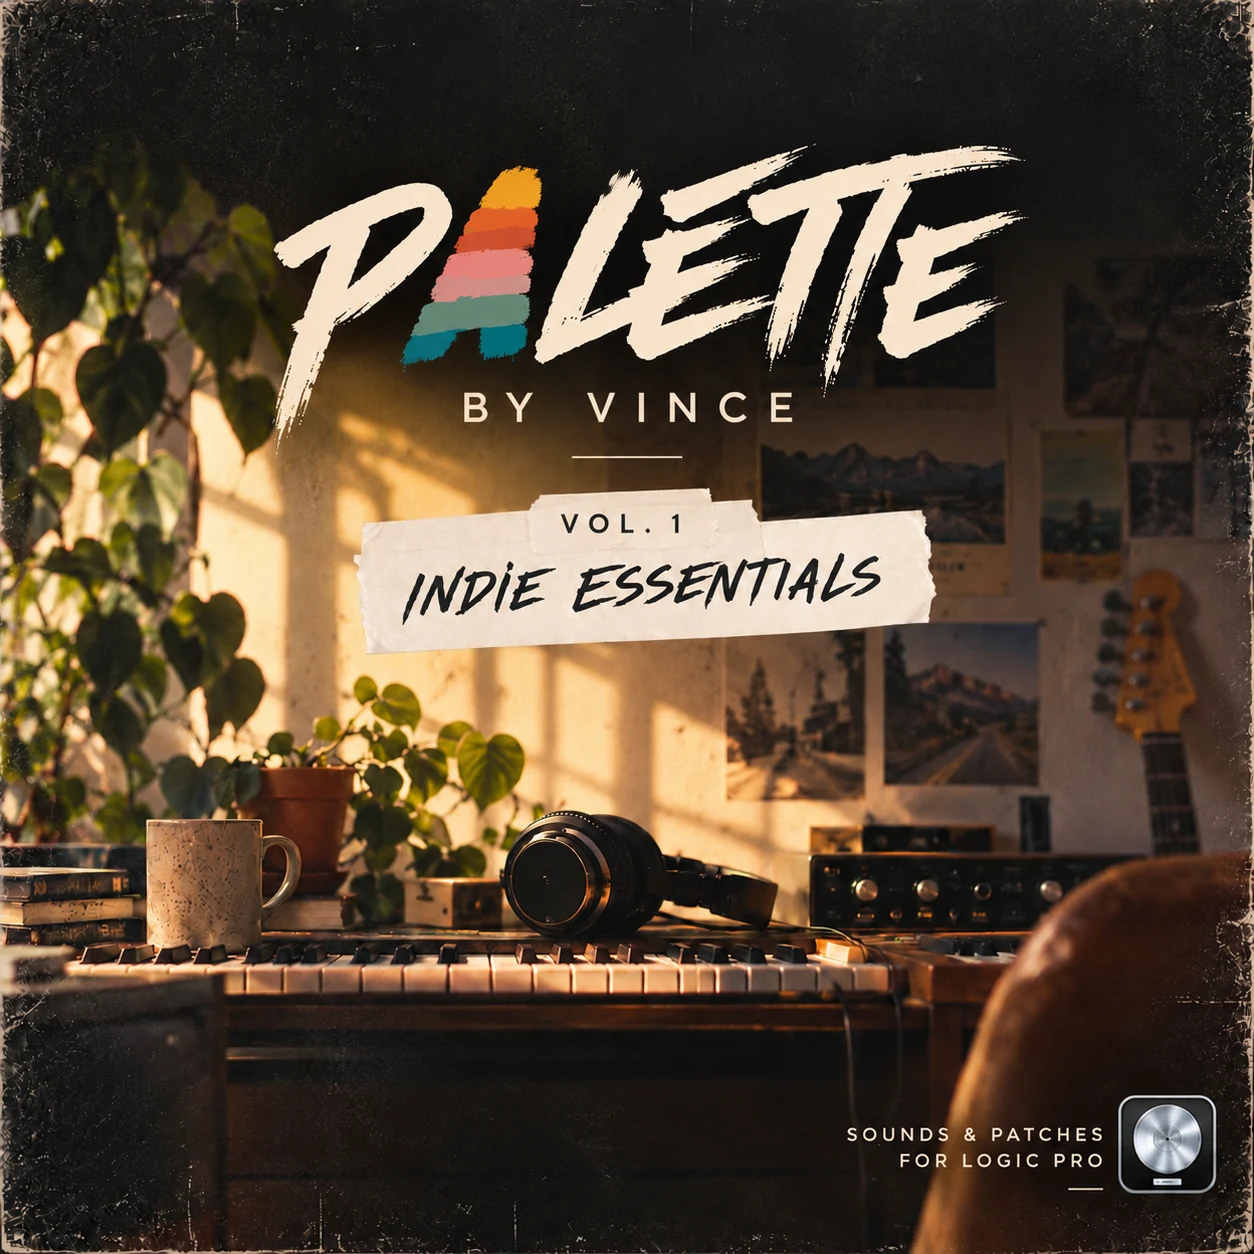
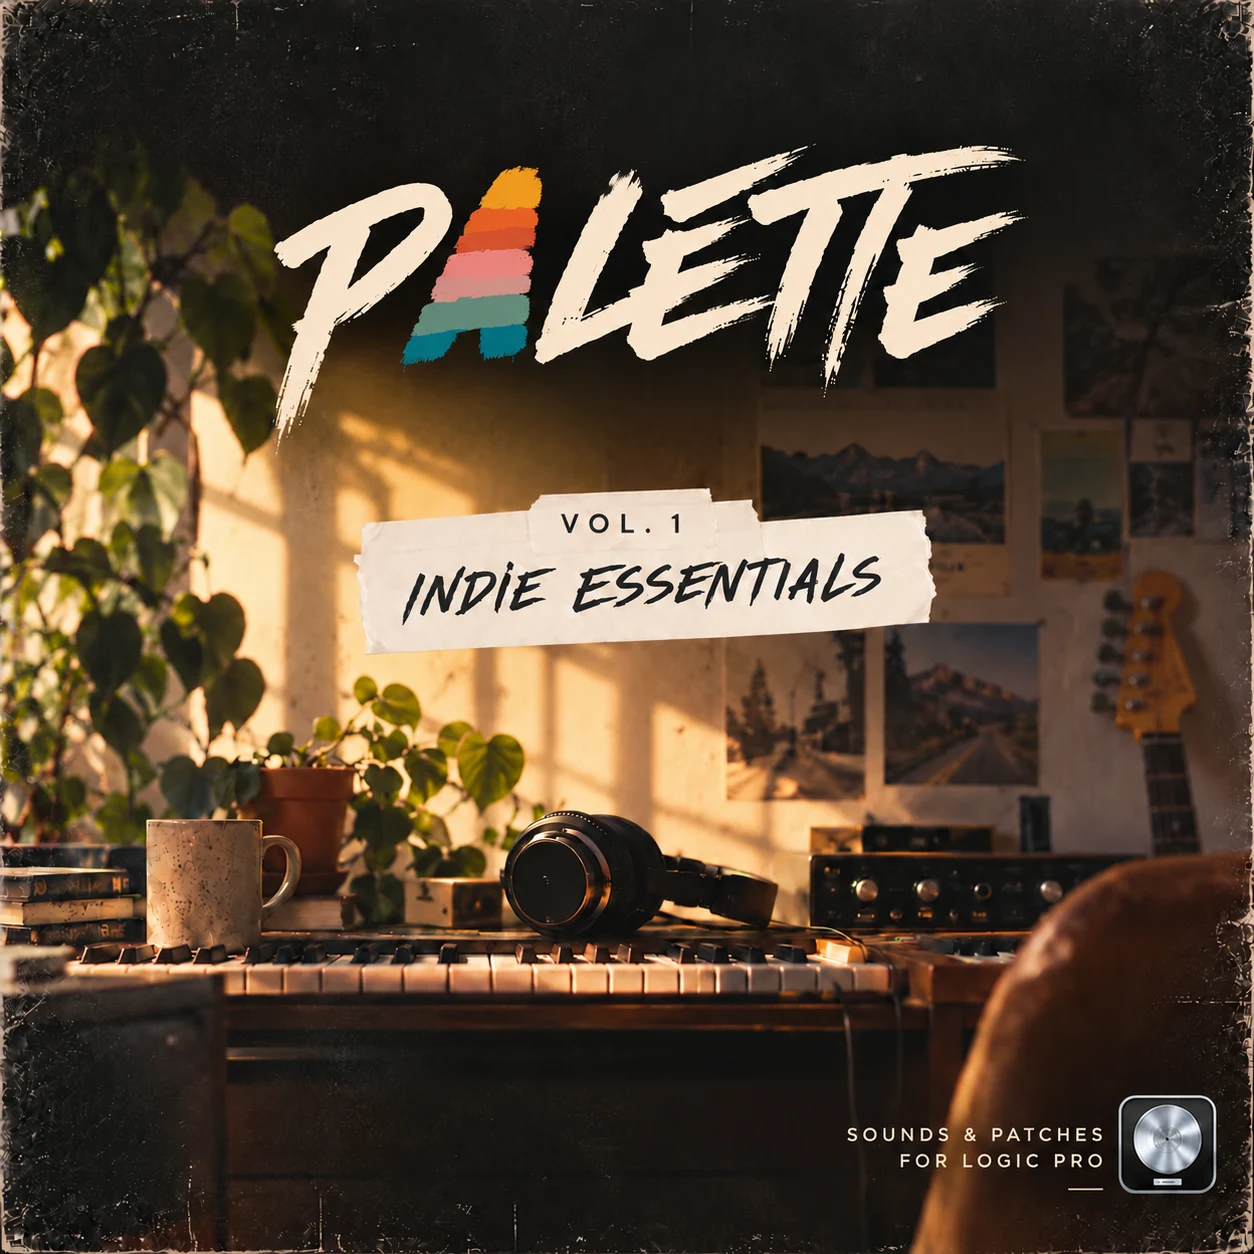
Rename Palette product and update its cover

diff --git a/src/data/sounds.ts b/src/data/sounds.ts
@@ -16,7 +16,7 @@ export const sounds: SoundProduct[] = [
   { slug: 'dream-vocals', name: 'Dream Vocals', category: 'Presets Logic Pro', price: 15,
     tagline: 'Une autre dimension pour ta voix.', description: 'Un rack vocal pour Logic Pro, piloté avec les Smart Controls. Explore de nouvelles textures vocales avec les effets de Logic, sans plugins tiers.',
     compatibility: 'Logic Pro 10.8+ · sans plugins tiers', contents: ['Rack vocal complet pour Logic Pro', 'Smart Controls déjà mappés', 'Reverb, delay et élargissement stéréo', 'Compression parallèle, saturation et texture', 'Mini-guide d’installation et d’utilisation'], images: ["/images/sounds/dream-vocals-0.webp", "/images/sounds/dream-vocals-1.webp"], video: "https://player.vimeo.com/video/1207758210", accent: '#af8bac' },
-  { slug: 'palette-indie-essentials', name: 'PALETTE by Vince - Vol. 1: Indie Essentials', category: 'Sounds & Patches Logic Pro', price: 19, launchPrice: 15, checkoutAvailable: false,
+  { slug: 'palette-indie-essentials', name: 'PALETTE - Vol. 1: Indie Essentials', category: 'Sounds & Patches Logic Pro', price: 19, launchPrice: 15, checkoutAvailable: false,
     tagline: '32 patches pour donner une couleur indie à tes productions.', description: 'Une sélection de 32 patches 100 % Logic Pro : 12 patches audio pour transformer tes prises de basse et de guitare, 7 patches MIDI de batterie à jouer avec tes patterns et les Session Players, puis 13 patches instruments pour les synthés et les textures. Une palette organique, texturée et prête à créer — sans aucun plugin tiers.',
     compatibility: 'Logic Pro uniquement · aucun plugin tiers', contents: ['4 patches audio Bass', '7 patches MIDI Drums : à jouer, programmer ou utiliser avec les patterns et les Session Players', '8 patches audio Guitars', '5 patches instruments Textures', '8 patches instruments Synth', '12 patches audio à utiliser avec un signal entrant · 20 patches MIDI et instruments à jouer directement'], images: ["/images/sounds/palette-indie-essentials-0.webp"], accent: '#b97a58' },
 ];
